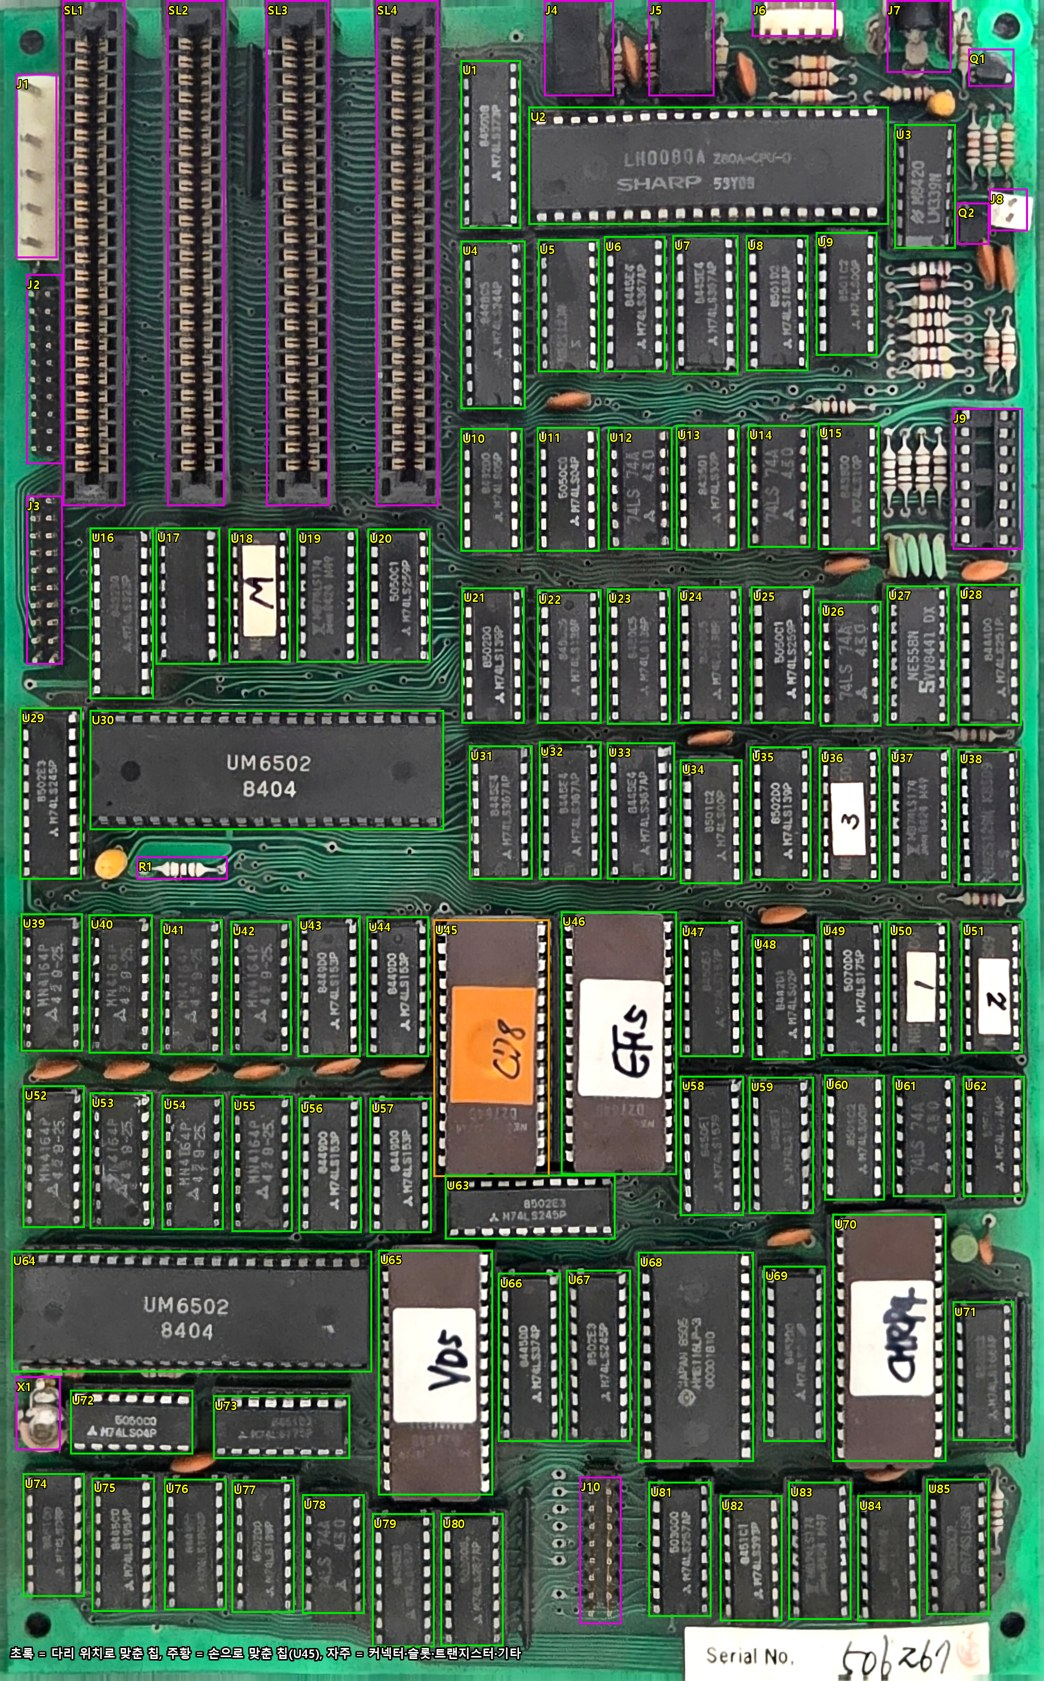
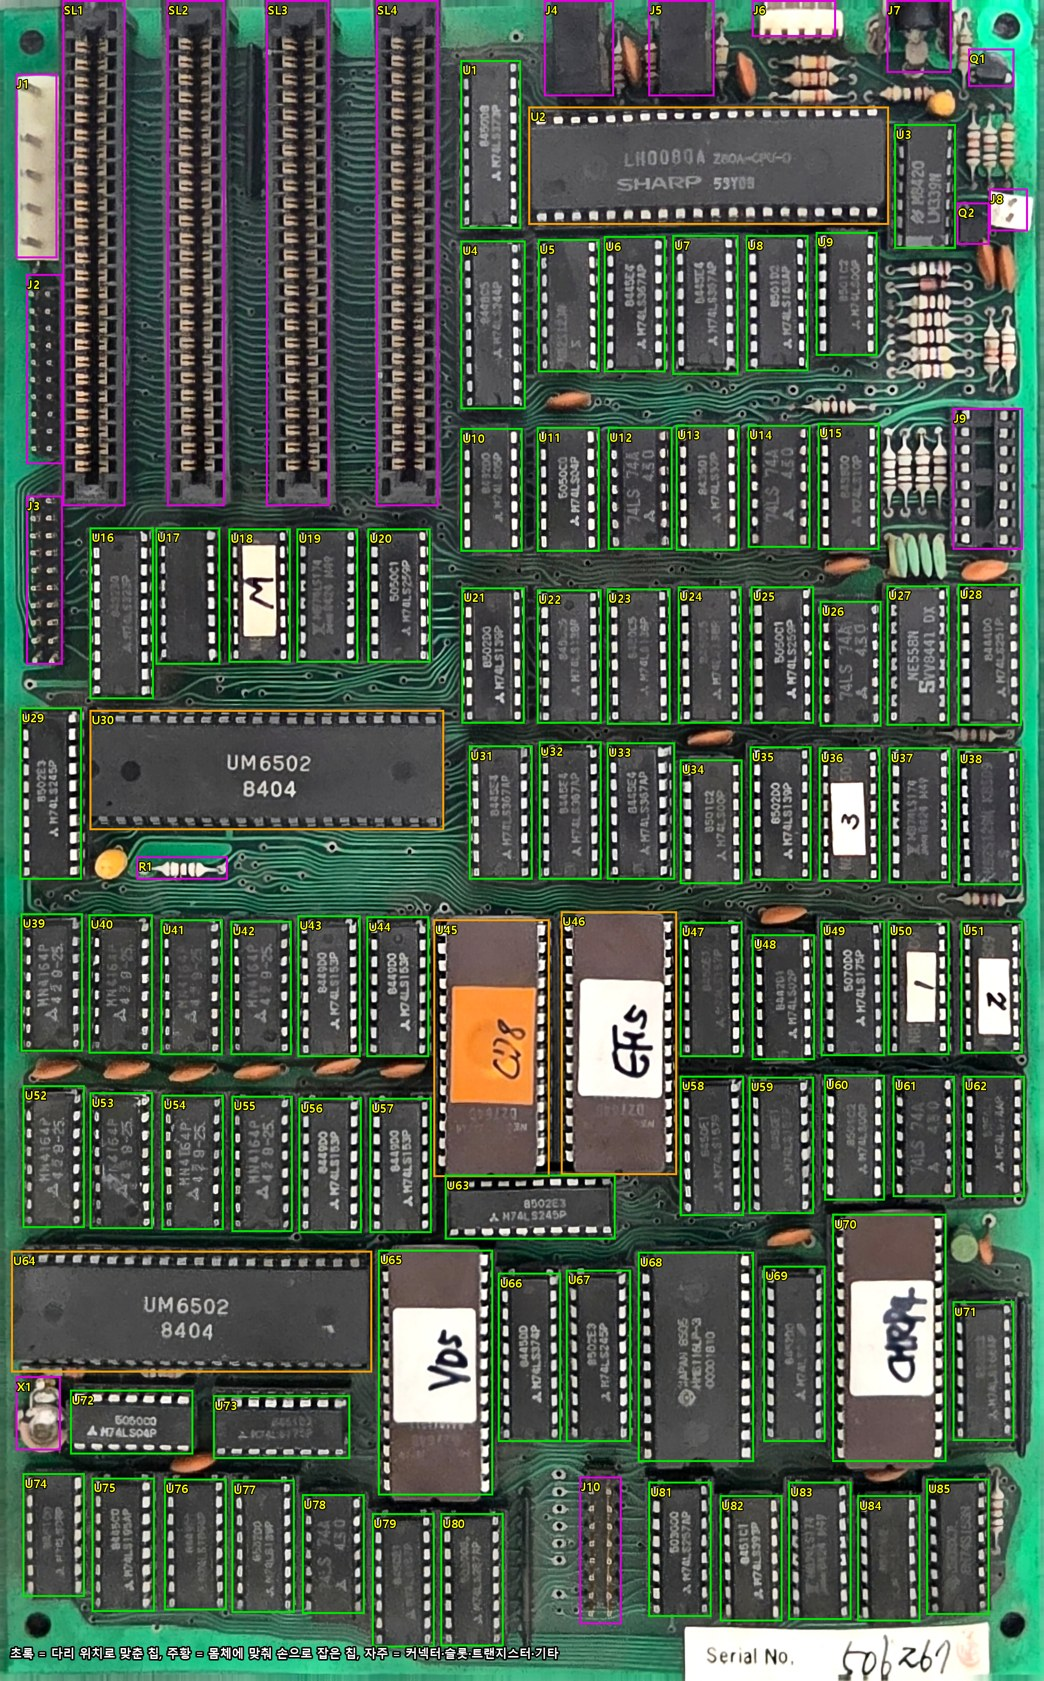
analysis: mark the hand-fitted package boxes in the BOM check picture

diff --git a/tools/draw_bom_boxes.py b/tools/draw_bom_boxes.py
@@ -13,7 +13,7 @@ from PIL import Image, ImageDraw, ImageFont
 
 ROOT = os.path.join(os.path.dirname(os.path.abspath(__file__)), '..')
 SX, SY = 2.09, 2.11
-BY_EYE = {'U45'}   # set by hand from its pad rows (aligned with U46)
+BY_EYE = {'U2', 'U30', 'U45', 'U46', 'U64'}   # set by hand to the whole package body
 
 im = Image.open(os.path.join(ROOT, 'photos/overview/front/202813_front-flat_layout-ref.jpg')).convert('RGB')
 d = ImageDraw.Draw(im)
@@ -32,7 +32,7 @@ for r in csv.reader(open(os.path.join(ROOT, 'data/bom.csv'), encoding='utf-8')):
         col = (255, 160, 0) if r[0] in BY_EYE else (0, 230, 0)
     d.rectangle(b, outline=col, width=4)
     d.text((b[0] + 3, b[1] + 2), r[0], font=f, fill=(255, 255, 0), stroke_width=2, stroke_fill=(0, 0, 0))
-d.text((20, 3290), '초록 = 다리 위치로 맞춘 칩, 주황 = 손으로 맞춘 칩(U45), 자주 = 커넥터·슬롯·트랜지스터·기타',
+d.text((20, 3290), '초록 = 다리 위치로 맞춘 칩, 주황 = 몸체에 맞춰 손으로 잡은 칩, 자주 = 커넥터·슬롯·트랜지스터·기타',
        font=f, fill=(255, 255, 255), stroke_width=3, stroke_fill=(0, 0, 0))
 out = os.path.join(ROOT, 'analysis/bom_boxes_check.jpg')
 im.resize((im.width // 2, im.height // 2)).save(out, quality=88)
